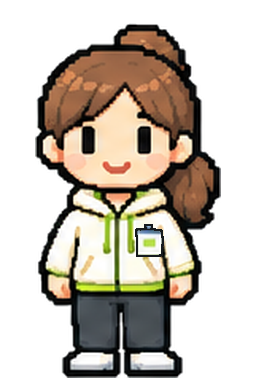
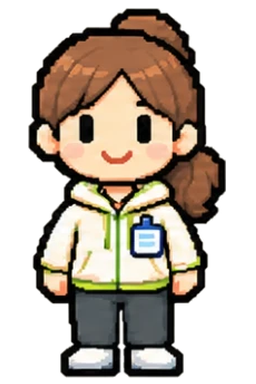
의상 16장을 디자이너 사원증 보완본으로 교체
- 새 시트(outfit-sheet-v2.webp, 윗줄 남성형·아랫줄 여성형)에서 다시 잘라 넣음. 임시로 옮겨 붙였던 사원증은 없앰
- 16장 모두 같은 배율·같은 발 위치. 여성형은 몸통 기준으로 가운데 맞춤

diff --git a/scripts/cut-outfit-art.py b/scripts/cut-outfit-art.py
@@ -1,28 +1,29 @@
-# 의상 시트(design/outfit-sheet-2026-11-19/outfit-sheet-original.png)에서 의상별 전신 캐릭터 16장을 잘라
+# 의상 시트(design/outfit-sheet-2026-11-19/outfit-sheet-v2.webp, 사원증 보완본 11-19)에서 의상별 전신 캐릭터 16장을 잘라
 # public/game/v22/characters/char-<m|f>-<의상>.png (256×384, 투명) 로 넣습니다.
 #   python scripts/cut-outfit-art.py
-# 위 줄(기본 4벌)과 아래 줄(변형 4벌)은 그려진 크기가 달라, 줄마다 남성형 키를 같은 높이로 맞춥니다(여성형은 같은 배율).
+# 시트 구성: 윗줄 = 남성형 8벌, 아랫줄 = 여성형 8벌. 왼쪽부터 lib/game.ts OUTFITS 순서.
+# 남성형 키를 기준 높이에 맞추고 여성형도 같은 배율로 줄여, 16장의 머리 크기와 발 위치가 같게 합니다.
 from pathlib import Path
 from PIL import Image, ImageFilter
 import numpy as np
 from scipy import ndimage as ndi
-SRC = 'design/outfit-sheet-2026-11-19/outfit-sheet-original.png'
+SRC = 'design/outfit-sheet-2026-11-19/outfit-sheet-v2.webp'
 OUT = Path('public/game/v22/characters')
-KEYS = ['workout', 'nurse', 'doctor', 'office', 'hoodie', 'scrub', 'glasses', 'vest']  # lib/game.ts OUTFITS 와 같은 순서
+KEYS = ['workout', 'nurse', 'doctor', 'office', 'hoodie', 'scrub', 'glasses', 'vest']
 im = Image.open(SRC).convert('RGB'); a = np.asarray(im)
+H = im.height
 light = a.min(2) >= 215
 lab, n = ndi.label(light); sizes = ndi.sum(light, lab, range(1, n + 1))
-bg = np.isin(lab, [i + 1 for i, s in enumerate(sizes) if s > 6000])   # 바깥 바탕·옅은 색 판만 배경(그림 안의 흰색은 남김)
+bg = np.isin(lab, [i + 1 for i, s in enumerate(sizes) if s > 6000])   # 바깥 바탕만 배경(그림 안의 흰 가운·신발은 남김)
 fg = ndi.binary_opening(~bg, structure=np.ones((3, 3)))
-boxes = []
-for y0, y1 in ((135, 480), (595, 860)):
+rows = []
+for y0, y1 in ((0, H // 2), (H // 2, H)):
     m = np.zeros_like(fg); m[y0:y1] = fg[y0:y1]
-    l2, _ = ndi.label(ndi.binary_dilation(m, structure=np.ones((7, 7))))
-    row = []
-    for sl in ndi.find_objects(l2):
-        if sl[0].stop - sl[0].start >= 150 and sl[1].stop - sl[1].start >= 60:
-            row.append((sl[1].start, sl[0].start, sl[1].stop, sl[0].stop))
-    row.sort(); assert len(row) == 8, len(row); boxes.append(row)
+    l2, _ = ndi.label(ndi.binary_dilation(m, structure=np.ones((5, 5))))
+    row = [(sl[1].start, sl[0].start, sl[1].stop, sl[0].stop) for sl in ndi.find_objects(l2)
+           if sl[0].stop - sl[0].start >= 150 and sl[1].stop - sl[1].start >= 60]
+    row.sort(); assert len(row) == 8, len(row); rows.append(row)
+
 def cut(box):
     x0, y0, x1, y1 = box
     m = fg[y0:y1, x0:x1]
@@ -32,39 +33,21 @@ def cut(box):
     c = Image.fromarray(a[y0:y1, x0:x1]).convert('RGBA')
     c.putalpha(Image.fromarray((m * 255).astype('uint8')).filter(ImageFilter.GaussianBlur(0.6)))
     return c.crop((xs.min(), ys.min(), xs.max() + 1, ys.max() + 1))
-for r, row in enumerate(boxes):
-    pairs = [(cut(row[i * 2]), cut(row[i * 2 + 1])) for i in range(4)]
-    s = 372 / max(p[0].height for p in pairs)
-    for i, (m_, f_) in enumerate(pairs):
-        for g, sp in (('m', m_), ('f', f_)):
-            rs = sp.resize((round(sp.width * s), round(sp.height * s)), Image.LANCZOS)
-            c = Image.new('RGBA', (256, 384), (0, 0, 0, 0)); c.alpha_composite(rs, ((256 - rs.width) // 2, 378 - rs.height))
-            c.save(OUT / f'char-{g}-{KEYS[r * 4 + i]}.png')
+
+sprites = {g: [cut(b) for b in rows[r]] for r, g in enumerate('mf')}
+s = 372 / max(sp.height for sp in sprites['m'])
+for g in 'mf':
+    for k, sp in zip(KEYS, sprites[g]):
+        rs = sp.resize((round(sp.width * s), round(sp.height * s)), Image.LANCZOS)
+        c = Image.new('RGBA', (256, 384), (0, 0, 0, 0))
+        # 여성형은 묶은 머리가 오른쪽으로 나와 있어 몸통(아래 절반) 기준으로 가운데를 맞춤
+        al = np.asarray(rs)[rs.height // 2:, :, 3] > 128
+        cols = np.where(al.any(0))[0]; cx = (cols.min() + cols.max() + 1) // 2
+        c.alpha_composite(rs, (128 - cx, 378 - rs.height)); c.save(OUT / f'char-{g}-{k}.png')
+    print(g, [sp.size for sp in sprites[g]])
 # 확인용 시트
 sheet = Image.new('RGBA', (8 * 136, 2 * 200), '#F6F4EE')
 for i, k in enumerate(KEYS):
     for j, g in enumerate('mf'):
         t = Image.open(OUT / f'char-{g}-{k}.png').resize((128, 192), Image.LANCZOS); sheet.alpha_composite(t, (i * 136 + 4, j * 200 + 4))
 Path('test-results').mkdir(exist_ok=True); sheet.convert('RGB').save('test-results/outfit-sheet.png'); print('ok', len(list(OUT.glob('char-*-*.png'))))
-
-# ── 사원증 보정(11-19 TK): 원본 시트에서 여성형 후드 집업·셔츠 차림에만 사원증이 없음 → 같은 의상 남성형의 사원증을 옮겨 붙임 ──
-def badge_patch(src, box):
-    """box 안의 사원증 몸통(밝은 덩어리)과 집게(파란 조각)를 떼고, 검은 테두리 2px 를 새로 둘러 줌"""
-    im = Image.open(OUT / src).convert('RGBA'); x0, y0, x1, y1 = box
-    a2 = np.asarray(im)[y0:y1, x0:x1, :3].astype(int)
-    r, g, b = a2[:, :, 0], a2[:, :, 1], a2[:, :, 2]
-    light = a2.min(2) > 150
-    l, k = ndi.label(light)
-    body = ndi.binary_fill_holes(l == 1 + int(np.argmax(ndi.sum(light, l, range(1, k + 1)))))
-    clip = (b > r + 25) & (b > 110) & ndi.binary_dilation(body, structure=np.ones((3, 3)), iterations=7)   # 몸통 바로 위 파란 집게
-    core = ndi.binary_fill_holes(body | clip)
-    ring = ndi.binary_dilation(core, structure=np.ones((3, 3)), iterations=2) & ~core
-    out = np.zeros((y1 - y0, x1 - x0, 4), 'uint8')
-    out[core] = np.concatenate([a2[core], np.full((core.sum(), 1), 255)], 1)
-    out[ring] = (22, 26, 30, 255)
-    return Image.fromarray(out, 'RGBA')
-for src, dst, box, dx, dy in (('char-m-hoodie.png', 'char-f-hoodie.png', (141, 220, 179, 269), -11, -3),
-                              ('char-m-vest.png', 'char-f-vest.png', (141, 217, 177, 264), -12, -2)):
-    p = badge_patch(src, box)
-    t = Image.open(OUT / dst).convert('RGBA'); t.alpha_composite(p, (box[0] + dx, box[1] + dy)); t.save(OUT / dst)
-    print('badge', dst, p.getbbox())
